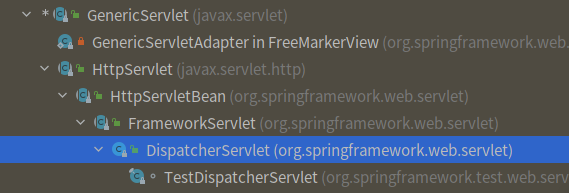
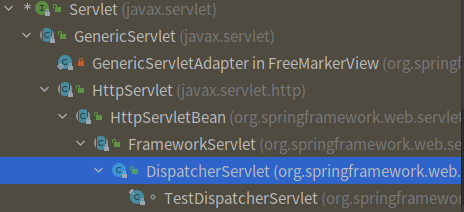
[add]mvc part rewrite.

diff --git a/mvc/spring-mvc-startup.md b/mvc/spring-mvc-startup.md
@@ -12,30 +12,37 @@
 看Spring Boot createWebServer获取ServletWebServerFactory的bean并初始化WebServer这一Spring Boot web服务器封装。
 然后留意TomcatWebServer的initialize（）方法。
 
-而对于Spring MVC DispatcherServlet和相关组件的初始化，并非在tomcat服务器构建起时就做，而要从下面拉开帷幕。
+而对于Spring MVC DispatcherServlet和相关组件的初始化，并非在tomcat服务器构建起时就做，而要从下面的分析中拉开帷幕。
 
+我们来看看DispatcherServlet的继承关系：
+![DispatcherServlet_inheritance.png](DispatcherServlet_inheritance.png)
 
+接口Servlet的定义：
 ~~~
 package javax.servlet;
 
 public interface Servlet {
 
     public void init(ServletConfig config) throws ServletException;
-
-    public ServletConfig getServletConfig();
-    
     public void service(ServletRequest req, ServletResponse res)
             throws ServletException, IOException;
-            
-    public String getServletInfo();
-
     public void destroy();
+    
+    //省略非核心接口……
 }
-
-
 ~~~
 
-![DispatcherServlet_inheritance.png](DispatcherServlet_inheritance.png)
+Servlet是一个运行在Web服务器中的小Java程序。Servlet接口定义了初始化Servlet、处理请求、从server中剔除Servlet的这些生命周期方法。
+调用顺序如下：
+1. Servlet被初始化并调用init方法
+2. service方法处理客户端请求
+3. Servlet被剔除出服务中，那么会调用destroy，最终被垃圾收集器处理掉。
+
+我们来关注初始化，
+Servlet的实现DispatcherServlet初始化时，也会调用init方法，
+首先来到的是`HttpServletBean`的init方法。
+
+
 
 
 
